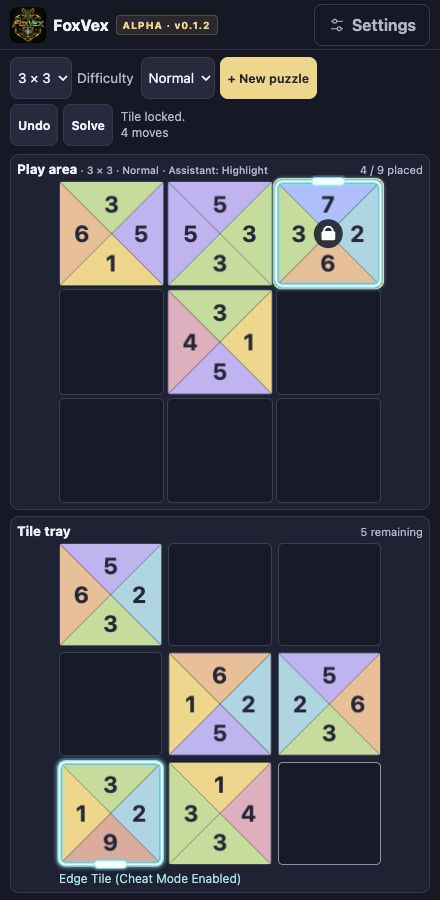
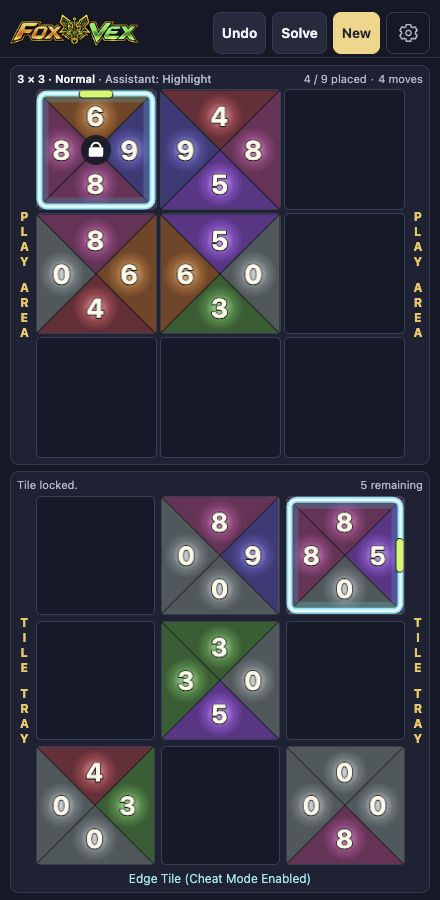
Release FoxVex 0.1.9 with tablet layouts and refreshed screenshots

diff --git a/src/main.ts b/src/main.ts
@@ -32,6 +32,8 @@ const confirmTitle = document.querySelector<HTMLHeadingElement>('#confirm-title'
 const confirmMessage = document.querySelector<HTMLParagraphElement>('#confirm-message')!;
 const confirmButton = document.querySelector<HTMLButtonElement>('#confirm-action')!;
 const smallLayout = document.querySelector<HTMLSelectElement>('#small-layout')!;
+const boardLayout = document.querySelector<HTMLSelectElement>('#board-layout')!;
+const boardLayoutStatus = document.querySelector<HTMLParagraphElement>('#board-layout-status')!;
 const matchingAssistant = document.querySelector<HTMLSelectElement>('#matching-assistant')!;
 const placementHelp = document.querySelector<HTMLParagraphElement>('#placement-help')!;
 const cheatMode = document.querySelector<HTMLInputElement>('#cheat-mode')!;
@@ -39,7 +41,7 @@ const playMarking = document.querySelector<HTMLParagraphElement>('#play-marking'
 const playCheat = document.querySelector<HTMLParagraphElement>('#play-cheat')!;
 const playAssistant = document.querySelector<HTMLParagraphElement>('#play-assistant')!;
 const edgeTileLegend = document.querySelector<HTMLParagraphElement>('#edge-tile-legend')!;
-const stackedLayout = matchMedia('(max-width: 699px) and (orientation: portrait)');
+const portraitViewport = matchMedia('(orientation: portrait)');
 const reducedMotion = matchMedia('(prefers-reduced-motion: reduce)');
 const areas = ['board', 'tray'] as const;
 const grids = {
@@ -49,6 +51,7 @@ const grids = {
 
 const saveKey = 'tetrahex.alpha.puzzle.v2';
 const layoutKey = 'tetrahex.alpha.small-layout.v1';
+const boardLayoutKey = 'foxvex.board-layout.v1';
 const assistantKey = 'tetrahex.alpha.matching-assistant.v1';
 const cheatModeKey = 'tetrahex.alpha.cheat-mode.v1';
 const doubleTapKey = 'foxvex.double-tap-action.v1';
@@ -231,11 +234,14 @@ function puzzleDescription(size: Size, difficulty: Difficulty) {
   return `${size} × ${size} · ${name}`;
 }
 
-function resize() {
+type BoardLayout = 'stacked' | 'side-by-side';
+
+function measureLayout(layout: BoardLayout) {
+  arena.dataset.layout = layout;
   const rect = arena.getBoundingClientRect();
   const boardHeight = grids.board.getBoundingClientRect().height;
   const trayHeight = grids.tray.getBoundingClientRect().height;
-  const stacked = stackedLayout.matches;
+  const stacked = layout === 'stacked';
   const gridHeight = stacked ? boardHeight + trayHeight : Math.max(boardHeight, trayHeight);
   const panelSpace = rect.height - gridHeight;
   const pageTop = rect.top + window.scrollY;
@@ -243,10 +249,40 @@ function resize() {
   const visual = window.visualViewport;
   const viewportHeight = visual?.scale === 1 ? Math.min(innerHeight, visual.height) : innerHeight;
   const available = Math.floor((viewportHeight - pageTop - panelSpace - bottomPadding) / (stacked ? 2 : 1));
-  const minimumTile = smallLayout.value === 'fit' ? 26 : stacked ? 39 : 35;
-  const minimumGrid = puzzle.size * minimumTile + (puzzle.size - 1) * 6;
-  const gridSize = Math.min(430, Math.max(available, minimumGrid));
+  const gutters = parseFloat(getComputedStyle(arena).getPropertyValue('--grid-gutters'));
+  const widths = areas.map(area => {
+    const panel = grids[area].closest<HTMLElement>('.panel')!;
+    const style = getComputedStyle(panel);
+    return panel.clientWidth - parseFloat(style.paddingLeft) - parseFloat(style.paddingRight) - gutters;
+  });
+  return Math.floor(Math.min(430, available, ...widths));
+}
+
+function resize() {
+  const preferred = boardLayout.value === 'auto'
+    ? portraitViewport.matches ? 'stacked' : 'side-by-side'
+    : boardLayout.value as BoardLayout;
+  const minimumGrid = (layout: BoardLayout) => {
+    const tile = smallLayout.value === 'fit' ? 26 : layout === 'stacked' ? 39 : 35;
+    return puzzle.size * tile + (puzzle.size - 1) * 6;
+  };
+  let layout = preferred;
+  let available = measureLayout(preferred);
+  if (available < minimumGrid(preferred)) {
+    const alternative = preferred === 'stacked' ? 'side-by-side' : 'stacked';
+    const alternativeSize = measureLayout(alternative);
+    if (alternativeSize > available) {
+      layout = alternative;
+      available = alternativeSize;
+    }
+  }
+  arena.dataset.layout = layout;
+  const gridSize = Math.max(available, minimumGrid(layout));
   arena.style.setProperty('--grid-max', `${gridSize}px`);
+  boardLayoutStatus.hidden = layout === preferred;
+  boardLayoutStatus.textContent = layout !== preferred
+    ? `Temporarily using ${layout === 'stacked' ? 'Stacked' : 'Side by side'} to keep tiles readable.`
+    : '';
   if (ready) scene.resize(layer.clientWidth, layer.clientHeight);
   scheduleDraw();
 }
@@ -709,6 +745,13 @@ cheatMode.addEventListener('change', () => {
 smallLayout.value = read(layoutKey) === 'scroll' ? 'scroll' : 'fit';
 smallLayout.addEventListener('change', () => {
   write(layoutKey, smallLayout.value);
+  scheduleLayout();
+});
+const savedBoardLayout = read(boardLayoutKey);
+boardLayout.value = savedBoardLayout === 'stacked' || savedBoardLayout === 'side-by-side'
+  ? savedBoardLayout : 'auto';
+boardLayout.addEventListener('change', () => {
+  write(boardLayoutKey, boardLayout.value);
   scheduleLayout();
 });
 updateHowToPlay();

diff --git a/src/style.css b/src/style.css
@@ -42,11 +42,15 @@ main { padding-block: 10px 8px; }
 
 .arena {
   display: grid;
-  grid-template-columns: repeat(2, minmax(0, 1fr));
+  grid-template-columns: 1fr;
   gap: 14px;
   --grid-max: 430px;
+  --grid-gutters: 28px;
 }
-.panel { min-width: 0; padding: 14px; border: 1px solid var(--line); border-radius: 13px; background: #1b2234; }
+.arena[data-layout="side-by-side"] { grid-template-columns: repeat(2, minmax(0, 1fr)); }
+.arena[data-layout="side-by-side"] .tray-panel { grid-column: 1; grid-row: 1; }
+.arena[data-layout="side-by-side"] .board-panel { grid-column: 2; grid-row: 1; }
+.panel { --panel-padding: 14px; min-width: 0; padding: var(--panel-padding); border: 1px solid var(--line); border-radius: 13px; background: #1b2234; }
 .panel-heading { display: flex; align-items: center; justify-content: space-between; gap: 6px; margin: 0 0 11px; font-size: .75rem; line-height: 1.2; }
 .panel h2 { margin: 0; font-size: inherit; font-weight: 600; }
 .assistant-details { display: inline-block; color: var(--muted); font-weight: 500; white-space: nowrap; }
@@ -54,24 +58,26 @@ main { padding-block: 10px 8px; }
 .count { color: var(--muted); white-space: nowrap; font-variant-numeric: tabular-nums; }
 .board-counts { display: flex; align-items: center; gap: 4px; }
 #edge-tile-legend { color: #69eaf0; font-size: .75rem; margin: 6px 0 0; text-align: center; }
-.grid-frame { position: relative; width: min(100%, calc(var(--grid-max) + 28px)); margin-inline: auto; }
+.grid-frame { position: relative; --grid-width: min(calc(100% - var(--grid-gutters)), var(--grid-max)); }
 .grid-label {
   position: absolute;
   display: flex;
+  align-items: center;
   gap: .9em;
+  width: calc((100% - var(--grid-width)) / 2 + var(--panel-padding));
   top: 50%;
   transform: translateY(-50%);
   writing-mode: vertical-rl;
   text-orientation: upright;
   white-space: nowrap;
-  font-size: clamp(6px, calc(var(--grid-max) / 12), 10px);
+  font-size: clamp(6px, calc(var(--grid-max) / 12), 12px);
   font-weight: 750;
   line-height: 1;
-  color: var(--muted);
+  color: #ffc454;
 }
-.grid-label:first-child { left: 0; }
-.grid-label:nth-child(3) { right: 0; }
-.victory-overlay { position: absolute; inset: 0; z-index: 2; display: grid; place-items: center; pointer-events: none; }
+.grid-label:first-child { left: calc(-1 * var(--panel-padding)); }
+.grid-label:nth-child(3) { right: calc(-1 * var(--panel-padding)); }
+.victory-overlay { position: absolute; inset: 0; width: min(100%, calc(var(--grid-max) + var(--grid-gutters))); margin-inline: auto; z-index: 2; display: grid; place-items: center; pointer-events: none; }
 .victory-card {
   display: grid;
   justify-items: center;
@@ -111,7 +117,7 @@ main { padding-block: 10px 8px; }
 .grid {
   display: grid;
   grid-template-columns: repeat(var(--size, 4), minmax(0, 1fr));
-  width: calc(100% - 28px);
+  width: var(--grid-width);
   aspect-ratio: 1;
   margin-inline: auto;
   gap: 4px;
@@ -175,7 +181,7 @@ dialog form, .dialog-actions { display: flex; justify-content: flex-end; gap: 8p
   .bar-inner { height: 49px; }
   .header-actions button { padding-inline: 8px; font-size: .85rem; }
   main { padding-block: 7px 6px; }
-  .panel { padding: 6px; border-radius: 9px; }
+  .panel { --panel-padding: 6px; border-radius: 9px; }
   .panel-heading { margin-bottom: 4px; font-size: .7rem; }
   .arena { gap: 6px; }
   .grid { gap: 3px; }
@@ -183,13 +189,10 @@ dialog form, .dialog-actions { display: flex; justify-content: flex-end; gap: 8p
 
 @media (max-width: 699px) and (orientation: portrait) {
   .topbar { padding-top: 8px; }
-  .arena { grid-template-columns: 1fr; }
 }
 
 @media (orientation: landscape) {
   .landscape-only { display: inline; }
-  .tray-panel { grid-column: 1; grid-row: 1; }
-  .board-panel { grid-column: 2; grid-row: 1; }
 }
 
 @media (max-width: 699px) and (max-height: 620px) and (orientation: portrait) {
@@ -201,13 +204,13 @@ dialog form, .dialog-actions { display: flex; justify-content: flex-end; gap: 8p
   .bar-inner { height: 43px; }
   .header-actions { gap: 4px; }
   .header-actions button { padding-inline: 6px; font-size: .8rem; }
-  .panel { padding: 5px; }
+  .panel { --panel-padding: 5px; }
 }
 
 @media (max-width: 950px) and (max-height: 540px) and (orientation: landscape) {
   .bar-inner { height: 43px; }
   main { padding-block: 6px; }
   .header-actions button { padding-inline: 9px; font-size: .86rem; }
-  .panel { padding: 5px; }
+  .panel { --panel-padding: 5px; }
   .panel-heading { margin-bottom: 3px; }
 }

diff --git a/index.html b/index.html
@@ -143,6 +143,16 @@
       <p id="double-tap-help">On the board, double-tap, double-click, or press M on a focused tile to mark or unmark it. Locked tiles stay put until unlocked.</p>
     </div>
     <div class="setting-group">
+      <label for="board-layout">Board layout</label>
+      <select id="board-layout" aria-describedby="board-layout-help board-layout-status">
+        <option value="auto" selected>Auto</option>
+        <option value="stacked">Stacked</option>
+        <option value="side-by-side">Side by side</option>
+      </select>
+      <p id="board-layout-help">Auto stacks in portrait and places the tray on the left in landscape. Your preferred layout temporarily adjusts if the other arrangement keeps tiles more readable.</p>
+      <p id="board-layout-status" role="status" hidden></p>
+    </div>
+    <div class="setting-group">
       <label for="small-layout">Small-screen layout</label>
       <select id="small-layout" aria-describedby="layout-help">
         <option value="scroll">Scroll with larger tiles</option>

diff --git a/README.md b/README.md
@@ -1,11 +1,11 @@
 # FoxVex
 
-<img src="public/foxvex-logo.png" width="280" alt="FoxVex logo">
-
-**Version 0.1.8 · Alpha**
+<p align="center">
+  <img src="public/foxvex-logo.png" width="280" alt="FoxVex logo">
+</p>
 
 <p align="center">
-  <a href="https://natsteff.github.io/foxvex/"><img src="docs/play-now.svg" width="280" alt="Play FoxVex now"></a>
+  <a href="https://natsteff.github.io/foxvex/"><img src="docs/play-now.svg" width="280" alt="Play FoxVex now, version 0.1.9 Alpha"></a>
 </p>
 
 **Play FoxVex in your browser.** [Open the game](https://natsteff.github.io/foxvex/)
@@ -19,7 +19,7 @@ Inspired by classic TetraVex-style puzzles, FoxVex brings traditional number-mat
 - **Local saves** let you resume a puzzle in the same browser, including locked and penciled-in tiles. You can also undo moves or reveal the solution.
 - **Puzzle completion** shows your move count and a **Next Puzzle** button. Solve in one move per tile to earn a perfect-game badge and confetti.
 
-FoxVex supports mouse and keyboard on desktop and touch on phones and tablets. Landscape puts the tray on the left and the board on the right. Phone portrait stacks the board above the tray. On small screens, choose larger tiles with scrolling or smaller tiles that fit more of the puzzle on screen. Controller support and FOX Arcade validation are planned.
+FoxVex supports mouse and keyboard on desktop and touch on phones and tablets. Auto layout stacks the board above the tray in portrait, including on tablets, and puts the tray on the left in landscape. Settings also offers saved Stacked and Side by side preferences. On small screens, choose larger tiles with scrolling or smaller tiles that fit more of the puzzle on screen. Controller support and FOX Arcade validation are planned.
 
 ## Add FoxVex to your Home Screen
 
@@ -30,19 +30,21 @@ FoxVex supports mouse and keyboard on desktop and touch on phones and tablets. L
 
 ## Mobile screenshots
 
-These screenshots show v0.1.2. The current layout opens size and difficulty controls from **New** (**New Puzzle** in landscape).
-
-The same 3×3 Normal puzzle in progress with default settings. Portrait stacks the play area above the tray. Landscape puts the tray on the left.
+The same 3×3 Normal puzzle in progress with the default Auto layout and Cheat Mode on. Portrait stacks the play area above the tray. Landscape puts the tray on the left.
 
 <img src="docs/screenshots/3x3-portrait.jpg" width="280" alt="3×3 FoxVex puzzle in portrait with four tiles placed">
 
 <img src="docs/screenshots/3x3-landscape.jpg" width="760" alt="The same 3×3 puzzle in landscape, with the tray on the left and the play area on the right">
 
-The 3×3 puzzle with Cheat Mode enabled, Matching Assistant set to Highlight mismatches, and Double-Tap Action set to Lock In. Cyan notches mark unmatched edges in the tray and on the board. The padlock marks a tile the player has locked in place.
+Settings shows the Board layout and sizing options. In the 3×3 game, cyan outlines and lime notches mark unmatched edges. A padlock marks a tile secured with Lock In.
 
 | Settings | 3×3 in progress |
 | --- | --- |
-| <img src="docs/screenshots/3x3-settings.jpg" width="280" alt="FoxVex Settings with Cheat Mode and Auto update on, Highlight mismatches, and Lock In"> | <img src="docs/screenshots/3x3-assisted.jpg" width="280" alt="3×3 puzzle with cyan edge clues and a locked tile on the board"> |
+| <img src="docs/screenshots/3x3-settings.jpg" width="280" alt="FoxVex Settings with Auto board layout, Fit screen sizing, Cheat Mode, and Lock In"> | <img src="docs/screenshots/3x3-assisted.jpg" width="280" alt="3×3 puzzle with cyan outlines, lime edge notches, and a locked tile on the board"> |
+
+Open **New** (**New Puzzle** in landscape) to choose a board size and difficulty. FoxVex replaces your current progress when you select **Start Puzzle**.
+
+<img src="docs/screenshots/new-puzzle.jpg" width="280" alt="New Puzzle dialog with board size, difficulty, and a warning about replacing current progress">
 
 **5×5 portrait** with default settings and eight tiles placed.
 
@@ -63,7 +65,9 @@ Select **New** (**New Puzzle** in landscape), choose **Board size** and **Diffic
 
 **Cheat Mode** outlines tiles with unmatched edges in cyan. Each lime notch marks a side with no opposite-side match on any other tile, so that side must face out. The marks follow the tile onto the board.
 
-On phones, the board sits above the tray in portrait. **Fit screen with smaller tiles** is the default. Choose **Scroll with larger tiles** in Settings if you prefer larger tiles. If the page scrolls, hold a dragged tile near the top or bottom of the screen to scroll.
+**Board layout** in Settings defaults to **Auto**, which stacks in portrait and uses side-by-side grids in landscape. Choose **Stacked** or **Side by side** to save a preference for any device. When the preferred arrangement would make tiles too small, FoxVex temporarily uses the other layout if it provides larger tiles, then restores your preference when there is room again.
+
+**Fit screen with smaller tiles** is the default sizing choice. Choose **Scroll with larger tiles** in Settings if you prefer larger tiles. If the page scrolls, hold a dragged tile near the top or bottom of the screen to scroll.
 
 The current puzzle saves in your browser. Undo history lasts until you reload or start a new puzzle. Solve reveals a valid arrangement and can be undone. Complete a puzzle yourself to see your move count and **Next Puzzle** in the tray.
 
